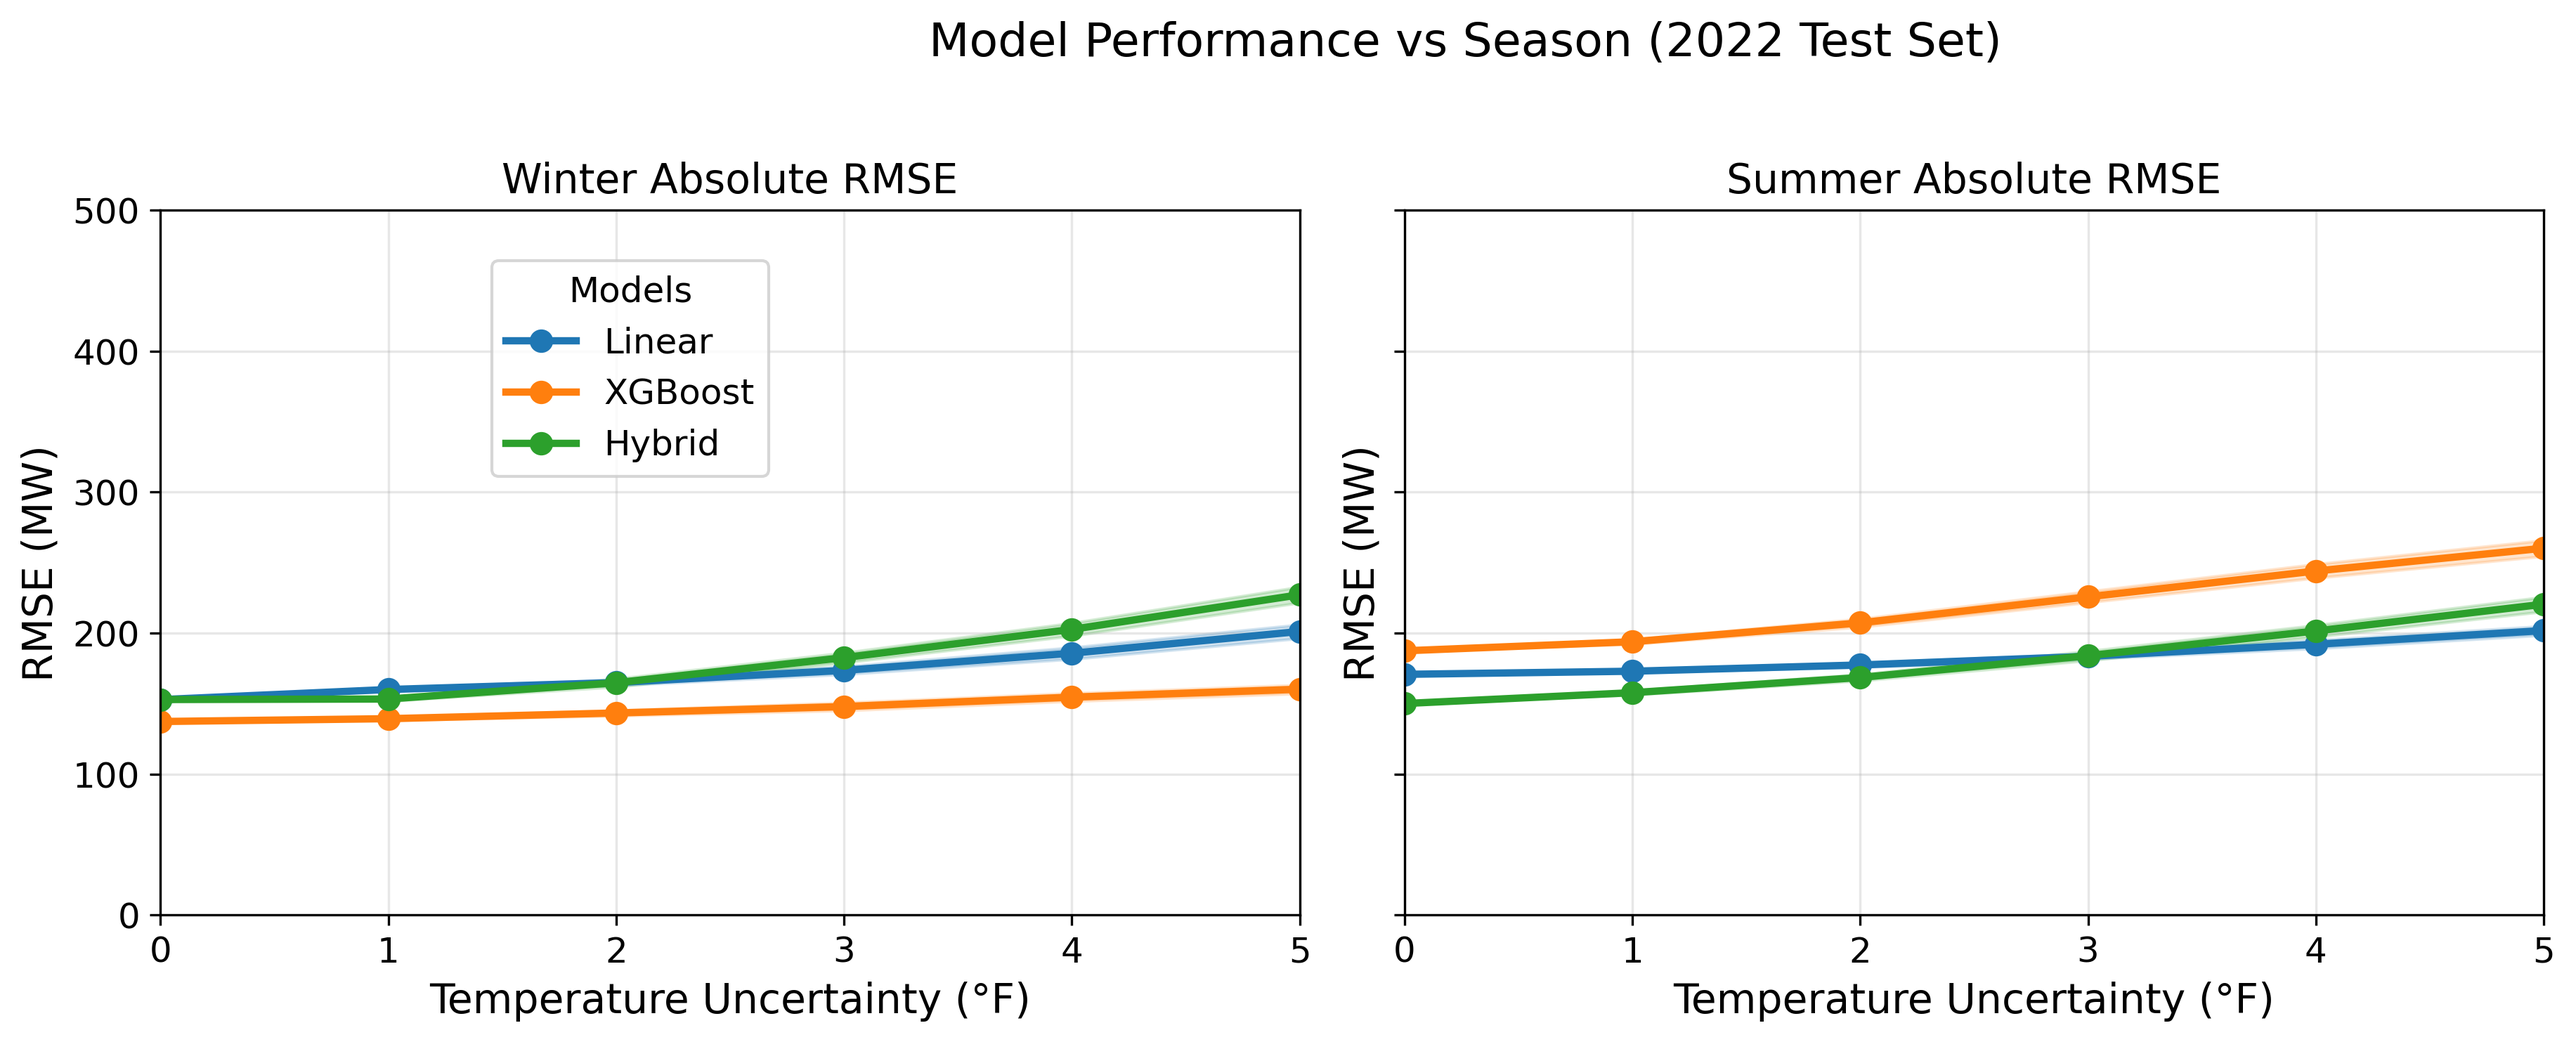
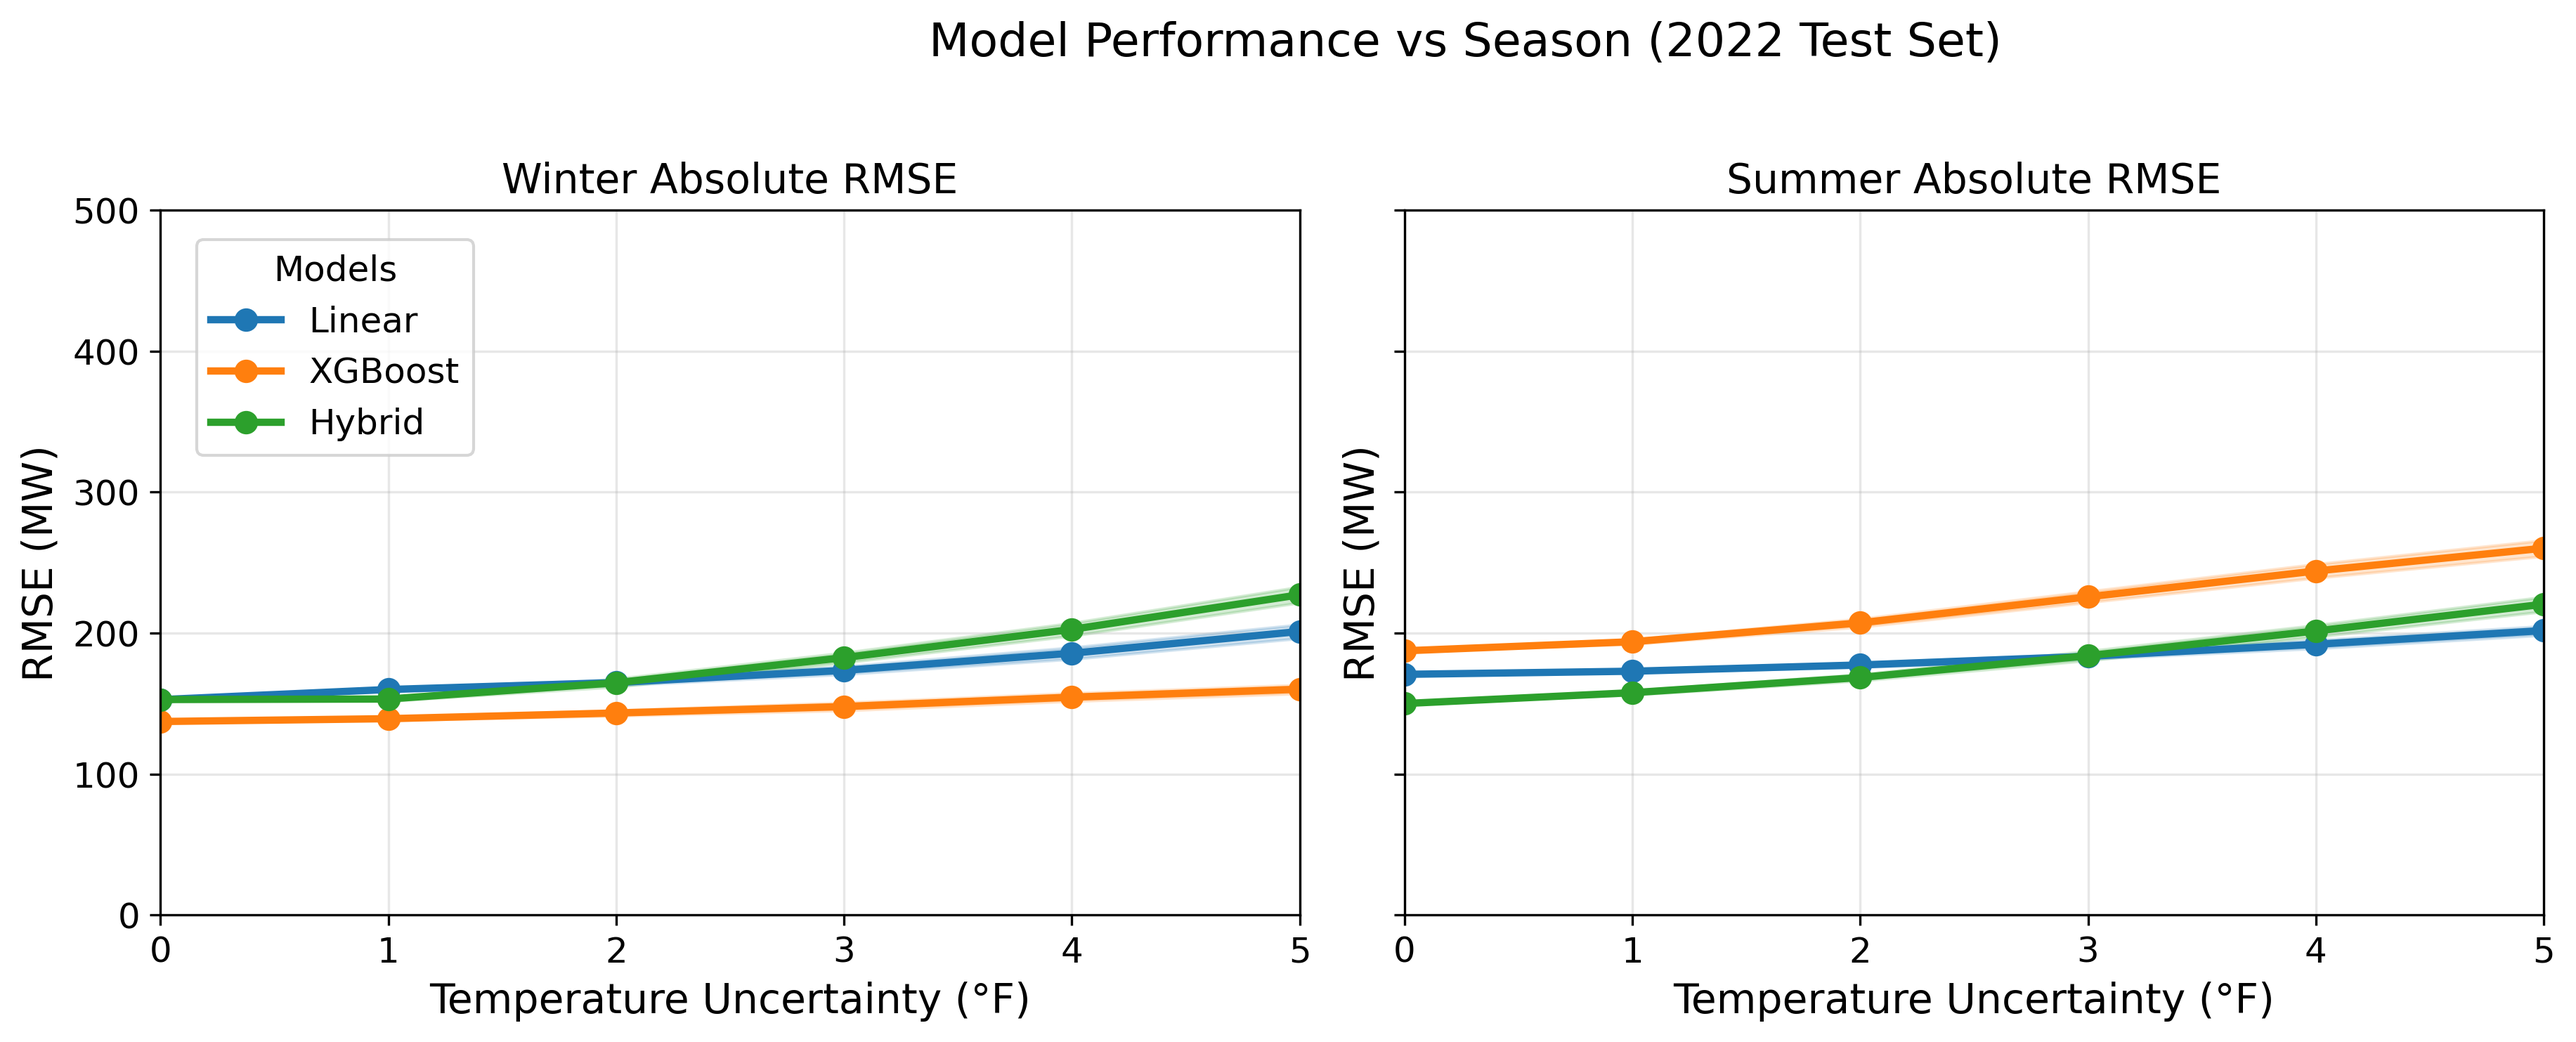
fixed seasonal plot legend

Changed region(s): [[0.0622, 0.2171, 0.1866, 0.4343], [0.1866, 0.3722, 0.311, 0.4653], [0.1866, 0.2481, 0.2799, 0.3412]]

diff --git a/src/results/create_plots.py b/src/results/create_plots.py
@@ -176,7 +176,7 @@ for i, season_key in enumerate(['Winter','Summer']):
     ax.tick_params(axis='both', labelsize=tick_font)
 
 handles, labels = axes[0].get_legend_handles_labels()
-fig.legend(handles, labels, loc='center right', bbox_to_anchor=(0.27, 0.65),
+fig.legend(handles, labels, loc='center right', bbox_to_anchor=(0.17, 0.67),
            title='Models', fontsize=legend_font, title_fontsize=legend_font)
 
 
